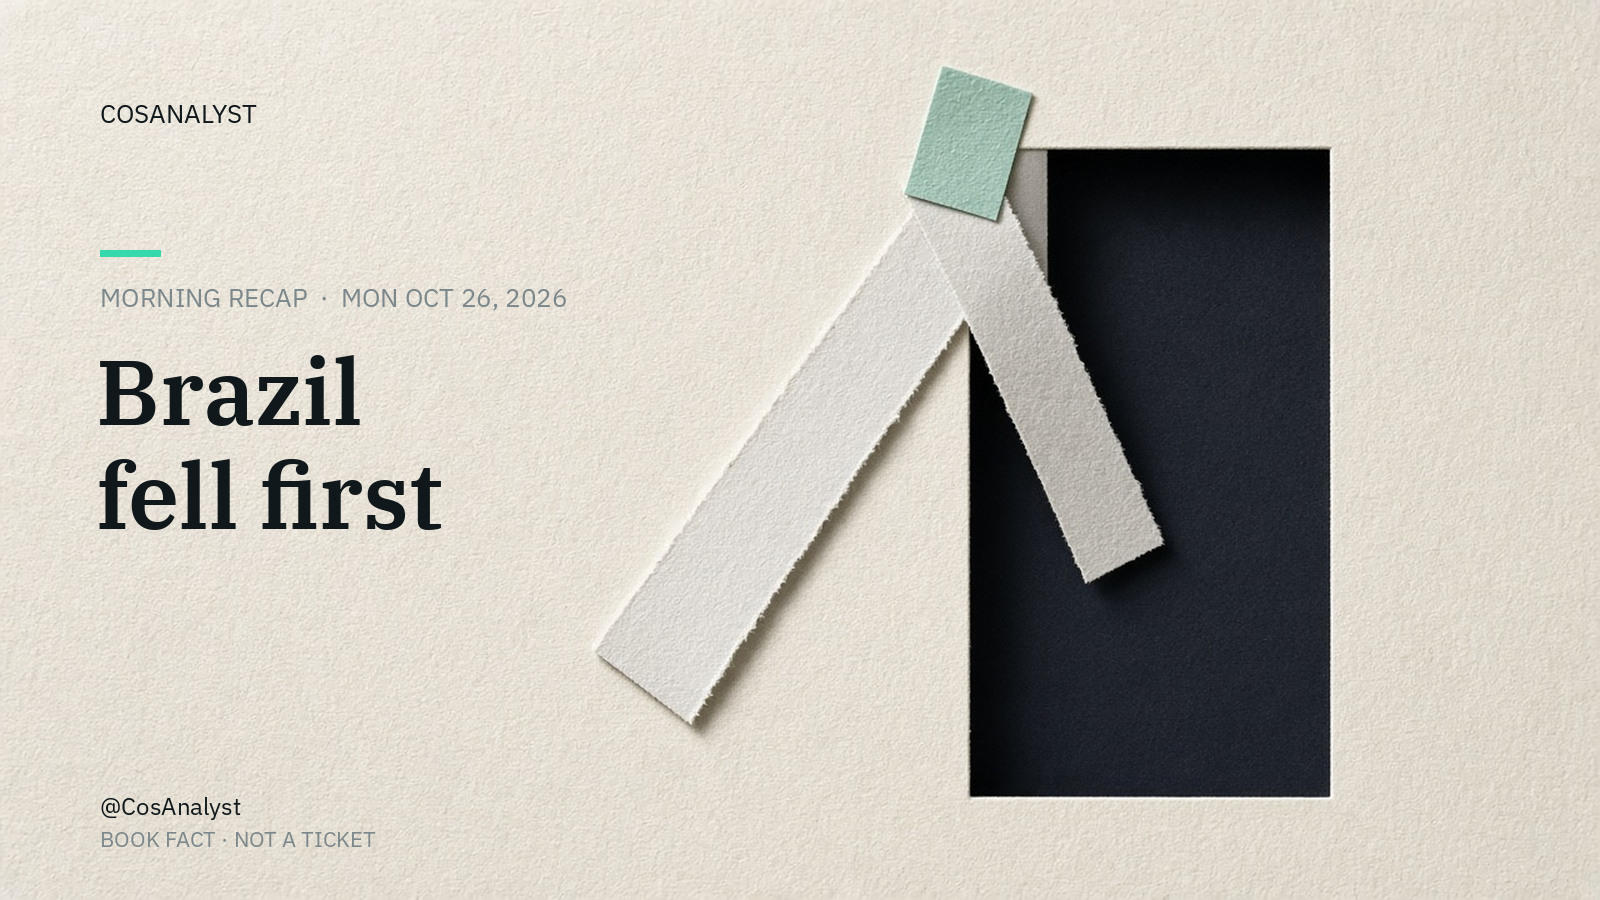
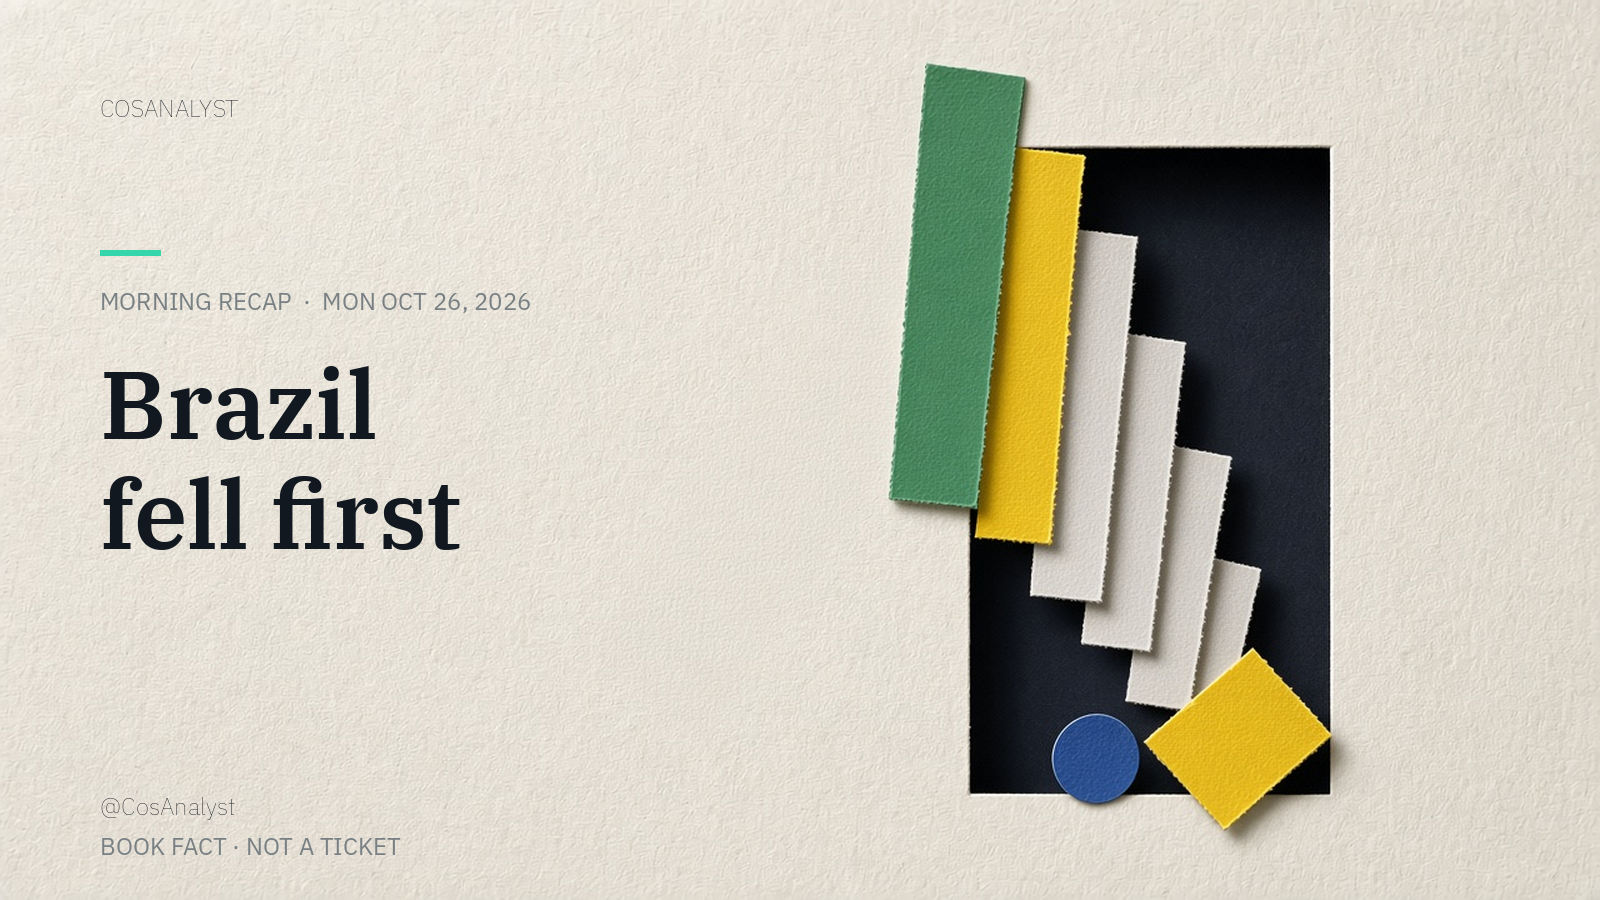
Replace Brazil stocks hero with the green-and-yellow bars collage.
The live article's OG image was still the ticker-tape collage. Swap in the 1600x900 paper-bars image and update only that entry's alt text.

diff --git a/src/content/articles/brazil-stocks-lula-ewz-premarket-2026-10-26.ts b/src/content/articles/brazil-stocks-lula-ewz-premarket-2026-10-26.ts
@@ -17,12 +17,12 @@ const article: Article = {
   "displayTime": "Oct 26, 2026 · 6:31 AM PT",
   "publishedAt": "2026-10-26T06:31:00-07:00",
   "ogImage": "/og/brazil-stocks-lula-ewz-premarket-2026-10-26.png",
-  "ogAlt": "Paper collage of ticker tape dropping into a dark gap, CosAnalyst",
+  "ogAlt": "Paper collage of green and yellow torn paper bars stepping down into a dark gap, Brazil fell first, CosAnalyst",
   "body": [
     {
       "type": "figure",
       "src": "/og/brazil-stocks-lula-ewz-premarket-2026-10-26.png",
-      "alt": "Paper collage of ticker tape dropping into a dark gap, CosAnalyst",
+      "alt": "Paper collage of green and yellow torn paper bars stepping down into a dark gap, Brazil fell first, CosAnalyst",
       "caption": "BOOK FACT · NOT A TICKET"
     },
     {
